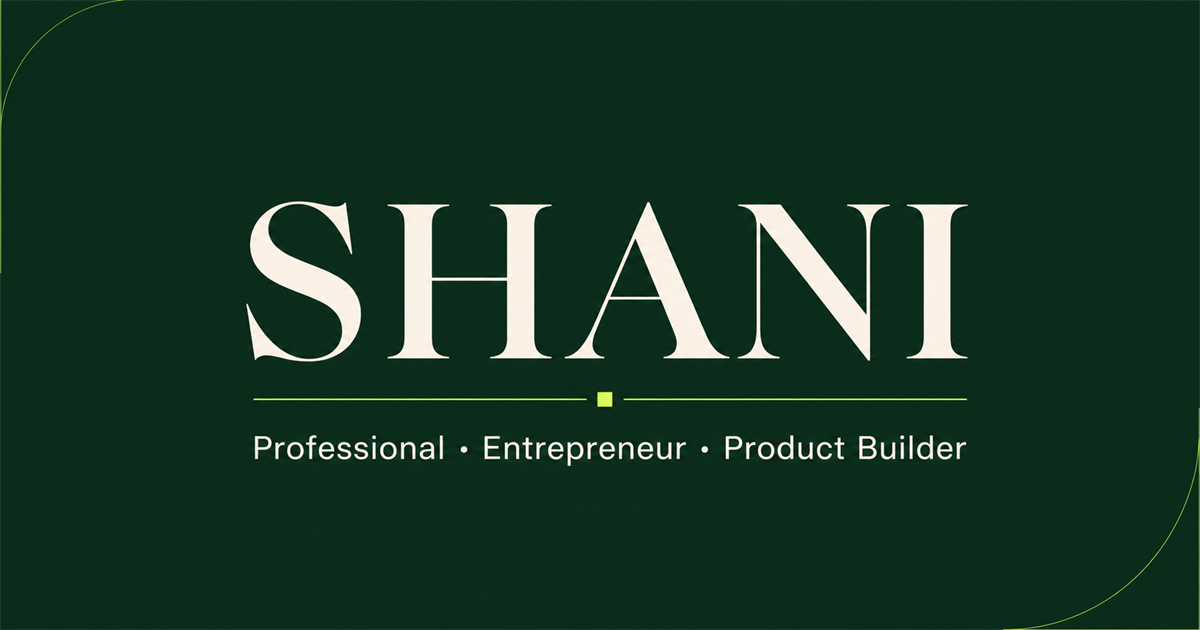
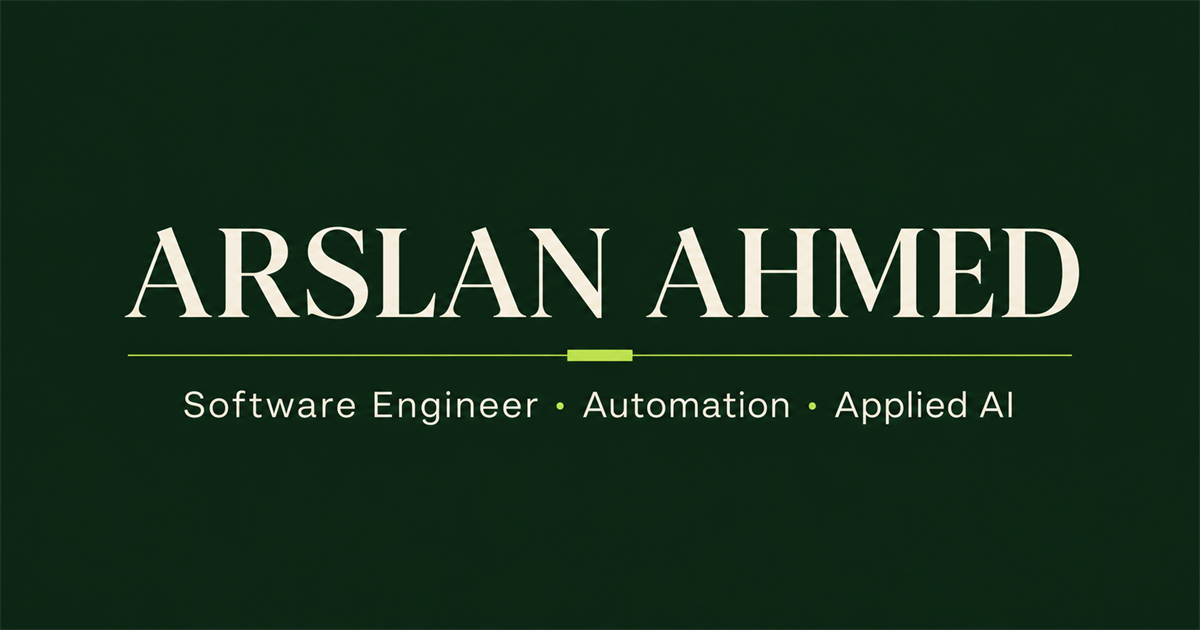
Add Arslan Ahmed resume details

diff --git a/docs/index.html b/docs/index.html
@@ -1,9 +1,13 @@
-<!doctype html><html lang="en"><head><meta charset="UTF-8"><meta name="viewport" content="width=device-width,initial-scale=1"><meta name="description" content="The professional portfolio of Shani: career, education, businesses, and products."><meta property="og:title" content="Shani — Professional, Entrepreneur & Product Builder"><meta property="og:description" content="Career, education, businesses, and products."><meta property="og:image" content="og.png"><title>Shani — Professional, Entrepreneur & Product Builder</title><link rel="preconnect" href="https://fonts.googleapis.com"><link rel="preconnect" href="https://fonts.gstatic.com" crossorigin><link href="https://fonts.googleapis.com/css2?family=Cormorant+Garamond:wght@500;600&family=DM+Sans:wght@400;500;600&display=swap" rel="stylesheet"><link rel="stylesheet" href="styles.css"></head><body>
-<header><a class="mark" href="#top">S<span>.</span></a><nav><a href="#career">Career</a><a href="#education">Education</a><a href="#business">Business</a><a href="#products">Products</a></nav><a class="under" href="mailto:hello@example.com">Let’s talk ↗</a></header>
-<main><section class="hero" id="top"><p class="kicker">● Professional portfolio · 2026</p><h1>Building useful things<br>with <em>purpose.</em></h1><div class="herofoot"><p>I’m <strong>Shani</strong> — a professional, entrepreneur, and product builder turning ideas into work that creates lasting value.</p><a class="under" href="#career">Discover my work ↘</a></div><b class="ghost">S</b></section>
-<section class="statement pad"><p class="label">01 / Profile</p><div><h2>Strategy, execution,<br>and an eye for opportunity.</h2><p>This portfolio brings together my career, education, businesses, and products — the four threads that define how I learn, lead, and build.</p></div></section>
-<section class="pad dark" id="career"><div class="heading"><p class="label">02 / Career</p><h2>Experience that<br>moves work forward.</h2></div><div class="rows"><article><i>01</i><div><small>Present · Company or Organization</small><h3>Your Current Role</h3><p>Describe the work you lead, the people you serve, and the measurable result you create.</p></div></article><article><i>02</i><div><small>Previous · Company or Organization</small><h3>Previous Position</h3><p>Add one concise achievement that shows scope, ownership, and impact.</p></div></article></div></section>
-<section class="pad split" id="education"><div><p class="label">03 / Education</p><h2>A foundation for<br>lifelong learning.</h2></div><div class="edu"><article><small>Year</small><h3>Degree or Certification</h3><p>Institution name</p></article><article><small>Year</small><h3>Additional Education</h3><p>Institution name</p></article><p class="note">Add professional training, licenses, workshops, and independent study here too.</p></div></section>
-<section class="pad lime" id="business"><div class="heading"><p class="label">04 / Business</p><h2>Ventures built around<br>real customer needs.</h2></div><div class="cards"><article><i>01</i><small>Founder / Owner</small><h3>Business or Venture</h3><p>A clear one-line description of the customer, offer, and value you create.</p><a class="under" href="mailto:hello@example.com">Discuss this venture ↗</a></article><article><i>02</i><small>Partner / Advisor</small><h3>Second Venture</h3><p>Explain what makes this business useful, distinctive, or commercially strong.</p><a class="under" href="mailto:hello@example.com">Discuss this venture ↗</a></article></div></section>
-<section class="pad products" id="products"><div class="heading"><p class="label">05 / Products</p><h2>Ideas made<br>tangible.</h2></div><div class="products-list"><article><i>01</i><div><small>Digital Product</small><h3>Flagship Product</h3></div><p>The problem it solves and the outcome it gives customers.</p><span>Explore product ↗</span></article><article><i>02</i><div><small>Service</small><h3>Product or Service</h3></div><p>A concise, benefit-led description for prospective clients.</p><span>View details ↗</span></article><article><i>03</i><div><small>In development</small><h3>New Initiative</h3></div><p>A short preview of what you are building next.</p><span>Coming soon</span></article></div></section></main>
-<footer class="pad"><p class="label">06 / Contact</p><h2>Have an idea worth<br><em>building?</em></h2><a class="email" href="mailto:hello@example.com">✉ hello@example.com ↗</a><div><span>© 2026 Shani</span><span>LinkedIn · GitHub · Instagram</span><a href="#top">Back to top ↑</a></div></footer></body></html>
+<!doctype html><html lang="en"><head><meta charset="UTF-8"><meta name="viewport" content="width=device-width,initial-scale=1"><meta name="description" content="Arslan Ahmed is a Software Engineer specializing in full-stack development, automation, APIs, and applied AI."><meta property="og:title" content="Arslan Ahmed — Software Engineer"><meta property="og:description" content="Full-stack development, automation, APIs, and applied AI."><meta property="og:image" content="https://dev-arslan.github.io/shani-portfolio/og.png"><title>Arslan Ahmed — Software Engineer</title><link rel="preconnect" href="https://fonts.googleapis.com"><link rel="preconnect" href="https://fonts.gstatic.com" crossorigin><link href="https://fonts.googleapis.com/css2?family=Cormorant+Garamond:wght@500;600&family=DM+Sans:wght@400;500;600&display=swap" rel="stylesheet"><link rel="stylesheet" href="styles.css"></head><body>
+<style>.cards.single{grid-template-columns:1fr}.cards.single p{max-width:700px}.products-list a{font-size:12px;white-space:nowrap}@media(max-width:760px){.products-list article>a{grid-column:2}}</style><header><a class="mark" href="#top">AA<span>.</span></a><nav><a href="#career">Career</a><a href="#education">Education</a><a href="#business">Business</a><a href="#products">Products</a></nav><a class="under" href="mailto:arslanahmeddev350@gmail.com">Let’s talk ↗</a></header>
+<main><section class="hero" id="top"><p class="kicker">● Professional portfolio · 2026</p><h1>Engineering software<br>with <em>purpose.</em></h1><div class="herofoot"><p>I’m <strong>Arslan Ahmed</strong> — a Software Engineer with 5+ years of full-stack experience, building reliable applications, automation systems, and AI-driven products.</p><a class="under" href="#career">Discover my work ↘</a></div><b class="ghost">A</b></section>
+<section class="statement pad"><p class="label">01 / Profile</p><div><h2>Full-stack engineering,<br>automation, and applied AI.</h2><p>My work spans C#, Python, Java, APIs, databases, mobile development, testing, and business process automation — backed by practical experience across the complete software lifecycle.</p></div></section>
+<section class="pad dark" id="career"><div class="heading"><p class="label">02 / Career</p><h2>Experience that<br>moves work forward.</h2></div><div class="rows">
+<article><i>01</i><div><small>Jul 2023 - Present · Private Company · Lahore</small><h3>Information Technology Assistant</h3><p>Developing internal desktop and mobile applications in Python, C#, and Java; building API integrations and automation workflows; testing with Selenium and Appium; and managing SQL Server, MySQL, and MongoDB.</p></div></article>
+<article><i>02</i><div><small>Apr 2021 - Mar 2023 · Suzuki Premier Motors · Lahore</small><h3>Senior Software Developer</h3><p>Designed desktop application components with cross-functional teams, optimized Android and desktop performance, integrated frontend components with backend data, and contributed within Agile sprints.</p></div></article>
+<article><i>03</i><div><small>Apr 2020 - May 2021 · Prodesec SMC Ltd · Islamabad</small><h3>Network Security Administrator</h3><p>Designed Android interfaces with XAML, structured databases for reliable access and performance, and supported system administration and security configuration across client environments.</p></div></article>
+<article><i>04</i><div><small>Feb 2018 - Feb 2019 · Softwarehouse Corp · Pakistan</small><h3>Android Developer</h3><p>Developed Android applications across design, coding, and testing, building a strong foundation in mobile development practices.</p></div></article></div></section>
+<section class="pad split" id="education"><div><p class="label">03 / Education</p><h2>A foundation for<br>lifelong learning.</h2></div><div class="edu"><article><small>2014 - 2018</small><h3>Bachelor of Science in Computer Science</h3><p>University of Sargodha, Lahore Campus</p></article><p class="note">Core studies included Data Structures, Algorithm Analysis, Software Engineering, and Database Management. Languages: English, Urdu, and Punjabi.</p></div></section>
+<section class="pad lime" id="business"><div class="heading"><p class="label">04 / Business</p><h2>Automation built around<br>real business needs.</h2></div><div class="cards single"><article><i>01</i><small>Founder · AI-Driven Business Automation</small><h3>AutoMind Solutions</h3><p>A Lahore-based venture exploring applied AI, automation, and R&amp;D to streamline repetitive business workflows and processes.</p><a class="under" href="https://automindsolutions.store/" target="_blank" rel="noreferrer">Visit AutoMind Solutions ↗</a></article></div></section>
+<section class="pad products" id="products"><div class="heading"><p class="label">05 / Product</p><h2>Ideas made<br>tangible.</h2></div><div class="products-list"><article><i>01</i><div><small>AI Automation Platform</small><h3>MirrorFlow</h3></div><p>A business automation platform that streamlines repetitive workflows using Python, FastAPI, SQLModel, MySQL, Bootstrap, JavaScript, and Jinja2.</p><a href="https://dev-arslan.github.io/MirrorFlow-SaaS-/" target="_blank" rel="noreferrer">View project ↗</a></article></div></section></main>
+<footer class="pad"><p class="label">06 / Contact</p><h2>Have an idea worth<br><em>building?</em></h2><a class="email" href="mailto:arslanahmeddev350@gmail.com">✉ arslanahmeddev350@gmail.com ↗</a><div><span>© 2026 Arslan Ahmed · Lahore, Pakistan</span><span><a href="https://www.linkedin.com/in/arslan-ahmed-30aab017a" target="_blank" rel="noreferrer">LinkedIn</a> · <a href="https://github.com/Dev-Arslan" target="_blank" rel="noreferrer">GitHub</a></span><a href="#top">Back to top ↑</a></div></footer></body></html>

diff --git a/app/page.tsx b/app/page.tsx
@@ -1,40 +1,38 @@
 import { ArrowDownRight, ArrowUpRight, BriefcaseBusiness, GraduationCap, Mail, PackageOpen } from 'lucide-react';
 
 const experience = [
-  { period: 'Present', role: 'Your Current Role', company: 'Company or Organization', note: 'Describe the work you lead, the people you serve, and the measurable result you create.' },
-  { period: 'Previous', role: 'Previous Position', company: 'Company or Organization', note: 'Add one concise achievement that shows scope, ownership, and impact.' },
+  { period: 'Jul 2023 - Present', role: 'Information Technology Assistant', company: 'Private Company · Lahore', note: 'Developing internal desktop and mobile applications in Python, C#, and Java; building API integrations and automation workflows; testing with Selenium and Appium; and managing SQL Server, MySQL, and MongoDB.' },
+  { period: 'Apr 2021 - Mar 2023', role: 'Senior Software Developer', company: 'Suzuki Premier Motors · Lahore', note: 'Designed desktop application components with cross-functional teams, optimized Android and desktop performance, integrated frontend components with backend data, and contributed within Agile sprints.' },
+  { period: 'Apr 2020 - May 2021', role: 'Network Security Administrator', company: 'Prodesec SMC Ltd · Islamabad', note: 'Designed Android interfaces with XAML, structured databases for reliable access and performance, and supported system administration and security configuration across client environments.' },
+  { period: 'Feb 2018 - Feb 2019', role: 'Android Developer', company: 'Softwarehouse Corp · Pakistan', note: 'Developed Android applications across design, coding, and testing, building a strong foundation in mobile development practices.' },
 ];
 const education = [
-  { year: 'Year', degree: 'Degree or Certification', school: 'Institution name' },
-  { year: 'Year', degree: 'Additional Education', school: 'Institution name' },
+  { year: '2014 - 2018', degree: 'Bachelor of Science in Computer Science', school: 'University of Sargodha, Lahore Campus' },
 ];
 const ventures = [
-  { name: 'Business or Venture', type: 'Founder / Owner', text: 'A clear one-line description of the customer, offer, and value you create.' },
-  { name: 'Second Venture', type: 'Partner / Advisor', text: 'Explain what makes this business useful, distinctive, or commercially strong.' },
+  { name: 'AutoMind Solutions', type: 'Founder · AI-Driven Business Automation', text: 'A Lahore-based venture exploring applied AI, automation, and R&D to streamline repetitive business workflows and processes.', href: 'https://automindsolutions.store/' },
 ];
 const products = [
-  { name: 'Flagship Product', category: 'Digital Product', text: 'The problem it solves and the outcome it gives customers.', tag: 'Explore product' },
-  { name: 'Product or Service', category: 'Service', text: 'A concise, benefit-led description for prospective clients.', tag: 'View details' },
-  { name: 'New Initiative', category: 'In development', text: 'A short preview of what you are building next.', tag: 'Coming soon' },
+  { name: 'MirrorFlow', category: 'AI Automation Platform', text: 'A business automation platform that streamlines repetitive workflows using Python, FastAPI, SQLModel, MySQL, Bootstrap, JavaScript, and Jinja2.', tag: 'View project', href: 'https://dev-arslan.github.io/MirrorFlow-SaaS-/' },
 ];
 
 export default function Home() {
   return (
     <main>
       <header className="site-header">
-        <a className="wordmark" href="#top" aria-label="Home">S<span>.</span></a>
+        <a className="wordmark" href="#top" aria-label="Home">AA<span>.</span></a>
         <nav aria-label="Primary navigation"><a href="#career">Career</a><a href="#education">Education</a><a href="#business">Business</a><a href="#products">Products</a></nav>
-        <a className="contact-link" href="mailto:hello@example.com">Let&apos;s talk <ArrowUpRight size={15} /></a>
+        <a className="contact-link" href="mailto:arslanahmeddev350@gmail.com">Let&apos;s talk <ArrowUpRight size={15} /></a>
       </header>
       <section className="hero" id="top">
         <div className="eyebrow"><span /> Professional portfolio · 2026</div>
-        <h1>Building useful things<br />with <em>purpose.</em></h1>
-        <div className="hero-footer"><p>I&apos;m <strong>Shani</strong> — a professional, entrepreneur, and product builder turning ideas into work that creates lasting value.</p><a className="scroll-cue" href="#career">Discover my work <ArrowDownRight size={20} /></a></div>
-        <div className="hero-mark" aria-hidden="true">S</div>
+        <h1>Engineering software<br />with <em>purpose.</em></h1>
+        <div className="hero-footer"><p>I&apos;m <strong>Arslan Ahmed</strong> — a Software Engineer with 5+ years of full-stack experience, building reliable applications, automation systems, and AI-driven products.</p><a className="scroll-cue" href="#career">Discover my work <ArrowDownRight size={20} /></a></div>
+        <div className="hero-mark" aria-hidden="true">A</div>
       </section>
       <section className="statement section-pad">
         <p className="section-number">01 / Profile</p>
-        <div><h2>Strategy, execution,<br />and an eye for opportunity.</h2><p>This portfolio brings together my career, education, businesses, and products — the four threads that define how I learn, lead, and build.</p></div>
+        <div><h2>Full-stack engineering,<br />automation, and applied AI.</h2><p>My work spans C#, Python, Java, APIs, databases, mobile development, testing, and business process automation — backed by practical experience across the complete software lifecycle.</p></div>
       </section>
       <section className="section-pad dark-section" id="career">
         <div className="section-heading"><div><BriefcaseBusiness size={20} /><p className="section-number">02 / Career</p></div><h2>Experience that<br />moves work forward.</h2></div>
@@ -42,20 +40,20 @@ export default function Home() {
       </section>
       <section className="section-pad split-section" id="education">
         <div className="sticky-title"><GraduationCap size={22} /><p className="section-number">03 / Education</p><h2>A foundation for<br />lifelong learning.</h2></div>
-        <div className="education-list">{education.map((item) => <article key={item.degree}><p className="meta">{item.year}</p><h3>{item.degree}</h3><p>{item.school}</p></article>)}<p className="aside-note">Formal education is only part of the story. Add professional training, licenses, workshops, and independent study here too.</p></div>
+        <div className="education-list">{education.map((item) => <article key={item.degree}><p className="meta">{item.year}</p><h3>{item.degree}</h3><p>{item.school}</p></article>)}<p className="aside-note">Core studies included Data Structures, Algorithm Analysis, Software Engineering, and Database Management. Languages: English, Urdu, and Punjabi.</p></div>
       </section>
       <section className="section-pad business-section" id="business">
         <div className="section-heading"><div><BriefcaseBusiness size={20} /><p className="section-number">04 / Business</p></div><h2>Ventures built around<br />real customer needs.</h2></div>
-        <div className="venture-grid">{ventures.map((venture, index) => <article key={venture.name}><span className="venture-num">0{index + 1}</span><p className="meta">{venture.type}</p><h3>{venture.name}</h3><p>{venture.text}</p><a href="mailto:hello@example.com">Discuss this venture <ArrowUpRight size={16} /></a></article>)}</div>
+        <div className="venture-grid">{ventures.map((venture, index) => <article key={venture.name}><span className="venture-num">0{index + 1}</span><p className="meta">{venture.type}</p><h3>{venture.name}</h3><p>{venture.text}</p><a href={venture.href} target="_blank" rel="noreferrer">Visit AutoMind Solutions <ArrowUpRight size={16} /></a></article>)}</div>
       </section>
       <section className="section-pad products-section" id="products">
         <div className="section-heading"><div><PackageOpen size={20} /><p className="section-number">05 / Products</p></div><h2>Ideas made<br />tangible.</h2></div>
-        <div className="product-list">{products.map((product, index) => <article key={product.name}><span>0{index + 1}</span><div><p className="meta">{product.category}</p><h3>{product.name}</h3></div><p>{product.text}</p><span className="product-link">{product.tag} <ArrowUpRight size={15} /></span></article>)}</div>
+        <div className="product-list">{products.map((product, index) => <article key={product.name}><span>0{index + 1}</span><div><p className="meta">{product.category}</p><h3>{product.name}</h3></div><p>{product.text}</p><a className="product-link" href={product.href} target="_blank" rel="noreferrer">{product.tag} <ArrowUpRight size={15} /></a></article>)}</div>
       </section>
       <footer className="section-pad">
         <p className="section-number">06 / Contact</p><h2>Have an idea worth<br /><em>building?</em></h2>
-        <a className="email" href="mailto:hello@example.com"><Mail size={20} /> hello@example.com <ArrowUpRight size={22} /></a>
-        <div className="footer-line"><span>© 2026 Shani</span><span>LinkedIn · GitHub · Instagram</span><a href="#top">Back to top ↑</a></div>
+        <a className="email" href="mailto:arslanahmeddev350@gmail.com"><Mail size={20} /> arslanahmeddev350@gmail.com <ArrowUpRight size={22} /></a>
+        <div className="footer-line"><span>© 2026 Arslan Ahmed · Lahore, Pakistan</span><span><a href="https://www.linkedin.com/in/arslan-ahmed-30aab017a" target="_blank" rel="noreferrer">LinkedIn</a> · <a href="https://github.com/Dev-Arslan" target="_blank" rel="noreferrer">GitHub</a></span><a href="#top">Back to top ↑</a></div>
       </footer>
     </main>
   );

diff --git a/app/globals.css b/app/globals.css
@@ -13,7 +13,7 @@
 .statement h2,.section-heading h2,.sticky-title h2 { font:500 clamp(48px,7vw,96px)/.95 var(--font-serif); letter-spacing:-.045em; margin:0 0 40px; }.statement>div>p { max-width:600px; font-size:18px; line-height:1.7; color:var(--muted); }
 .dark-section { background:var(--ink); color:var(--paper); }.section-heading { display:grid; grid-template-columns:1fr 2fr; margin-bottom:70px; }.section-heading>div { display:flex; gap:12px; align-items:flex-start; }.timeline { border-top:1px solid #ffffff2b; }.timeline article { display:grid; grid-template-columns:80px 1fr; border-bottom:1px solid #ffffff2b; padding:38px 0; }.index,.venture-num { color:#759700; font:500 28px var(--font-serif); }.dark-section .index { color:var(--lime); }.timeline h3,.education-list h3,.venture-grid h3,.product-list h3 { font:500 clamp(30px,4vw,52px)/1 var(--font-serif); margin:10px 0; }.timeline article>div>p:last-child { max-width:650px; color:#b8c0ba; line-height:1.6; }
 .split-section { display:grid; grid-template-columns:1fr 1.5fr; gap:10vw; }.sticky-title svg { margin-bottom:16px; }.education-list article { padding:0 0 40px; margin-bottom:40px; border-bottom:1px solid #17231c22; }.education-list article>p:last-child { color:var(--muted); }.aside-note { background:var(--sand); padding:28px; max-width:520px; line-height:1.6; }
-.business-section { background:#d7ff62; }.venture-grid { display:grid; grid-template-columns:1fr 1fr; gap:1px; background:#17231c44; border:1px solid #17231c44; }.venture-grid article { background:#d7ff62; padding:42px; }.venture-grid article>p:nth-of-type(2) { line-height:1.6; max-width:460px; }.venture-grid a { display:inline-flex; gap:8px; align-items:center; margin-top:32px; font-size:13px; border-bottom:1px solid; padding-bottom:4px; }
+.business-section { background:#d7ff62; }.venture-grid { display:grid; grid-template-columns:1fr; gap:1px; background:#17231c44; border:1px solid #17231c44; }.venture-grid article { background:#d7ff62; padding:42px; }.venture-grid article>p:nth-of-type(2) { line-height:1.6; max-width:700px; }.venture-grid a { display:inline-flex; gap:8px; align-items:center; margin-top:32px; font-size:13px; border-bottom:1px solid; padding-bottom:4px; }
 .products-section { background:#e6e1d7; }.product-list { border-top:1px solid #17231c33; }.product-list article { display:grid; grid-template-columns:60px 1.1fr 1fr auto; gap:24px; align-items:center; padding:35px 0; border-bottom:1px solid #17231c33; }.product-list h3 { margin:5px 0; }.product-list>article>p { color:var(--muted); line-height:1.5; }.product-link { display:flex; gap:6px; align-items:center; font-size:12px; }
 footer { background:#101713; color:var(--paper); }footer h2 { font-size:clamp(70px,11vw,150px); }footer .email { font-size:clamp(18px,2vw,26px); border-color:var(--lime); padding-bottom:10px; }.footer-line { margin-top:100px; border-top:1px solid #ffffff2b; padding-top:24px; display:flex; justify-content:space-between; color:#aeb5b0; font-size:12px; }
 @media(max-width:760px){ nav{display:none}.contact-link{font-size:0}.contact-link svg{width:20px;height:20px}.hero{min-height:760px}.hero-footer{align-items:flex-start;flex-direction:column}.statement,.section-heading,.split-section{grid-template-columns:1fr;gap:32px}.venture-grid{grid-template-columns:1fr}.product-list article{grid-template-columns:36px 1fr}.product-list>article>p,.product-link{grid-column:2}.footer-line{flex-direction:column;gap:14px}.section-heading h2{font-size:54px}}

diff --git a/app/layout.tsx b/app/layout.tsx
@@ -5,9 +5,9 @@ import './globals.css';
 const sans = DM_Sans({ variable: '--font-sans', subsets: ['latin'] });
 const serif = Cormorant_Garamond({ variable: '--font-serif', subsets: ['latin'], weight: ['500', '600'] });
 export const metadata: Metadata = {
-  title: 'Shani — Professional, Entrepreneur & Product Builder',
-  description: 'The professional portfolio of Shani: career, education, businesses, and products.',
-  openGraph: { title: 'Shani — Professional, Entrepreneur & Product Builder', description: 'Career, education, businesses, and products.', images: ['/og.png'] },
-  twitter: { card: 'summary_large_image', title: 'Shani — Professional, Entrepreneur & Product Builder', description: 'Career, education, businesses, and products.', images: ['/og.png'] },
+  title: 'Arslan Ahmed — Software Engineer',
+  description: 'Software Engineer specializing in full-stack development, automation, APIs, and applied AI.',
+  openGraph: { title: 'Arslan Ahmed — Software Engineer', description: 'Full-stack development, automation, APIs, and applied AI.', images: ['/og.png'] },
+  twitter: { card: 'summary_large_image', title: 'Arslan Ahmed — Software Engineer', description: 'Full-stack development, automation, APIs, and applied AI.', images: ['/og.png'] },
 };
 export default function RootLayout({ children }: Readonly<{ children: React.ReactNode }>) { return <html lang="en"><body className={`${sans.variable} ${serif.variable}`}>{children}</body></html>; }
